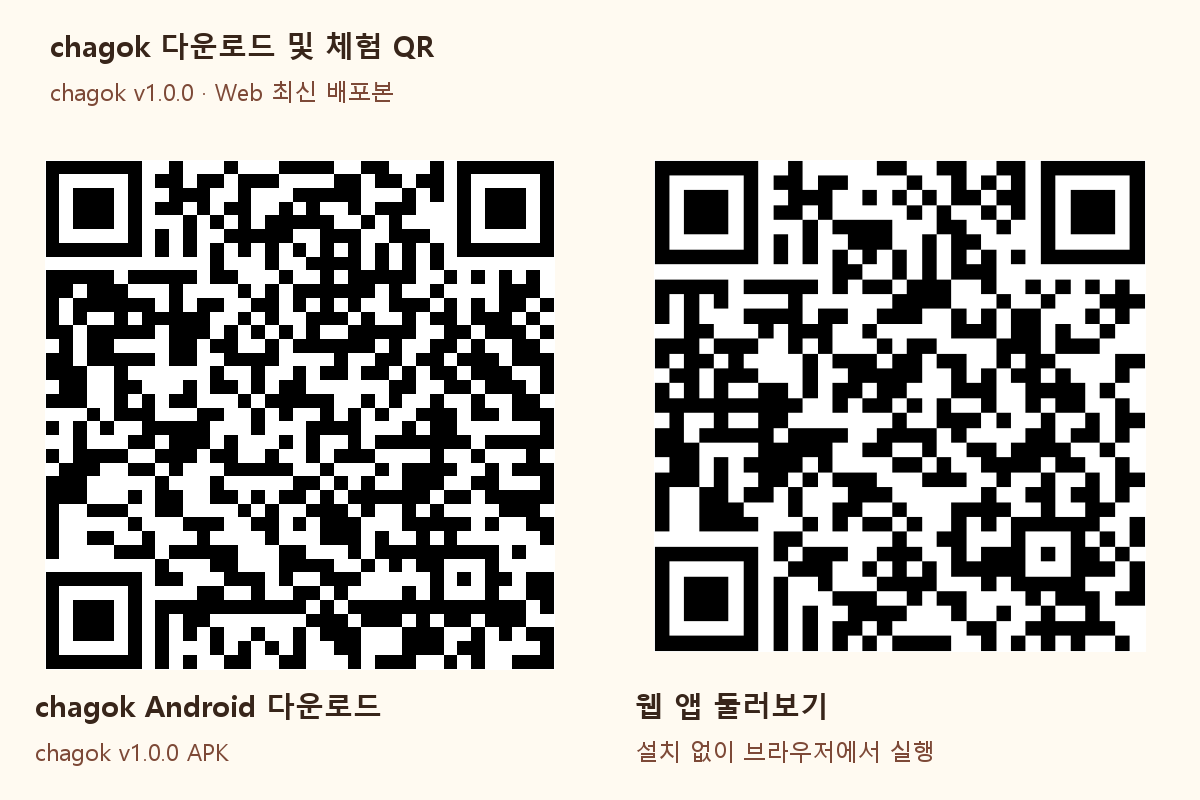
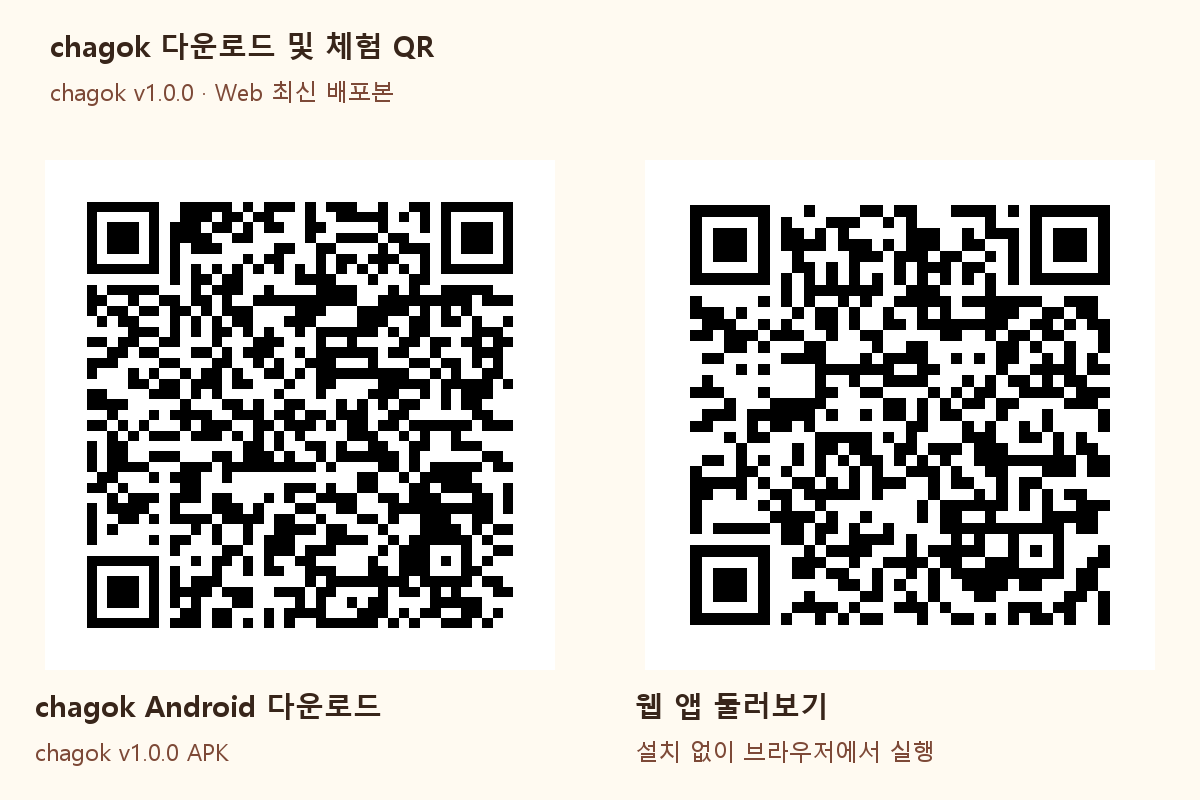
Refresh web preview QR destination

Changed region(s): [[0.0308, 0.1875, 0.4625, 0.8438], [0.5242, 0.1875, 0.9558, 0.8125]]

diff --git a/tmp/create_delivery_qr.py b/tmp/create_delivery_qr.py
@@ -8,7 +8,7 @@ out = Path(__file__).resolve().parents[1] / 'delivery-qr'
 out.mkdir(exist_ok=True)
 items = [
     ('android-download', 'chagok Android 다운로드', 'chagok v1.0.0 APK', 'https://github.com/songchaewonn/cookietime-android-mvp/releases/download/v1.0.0/chagok-v1.0.0.apk'),
-    ('web-preview', '웹 앱 둘러보기', '설치 없이 브라우저에서 실행', 'https://songchaewonn.github.io/cookietime-mvp/?rev=97f9ecf'),
+    ('web-preview', '웹 앱 둘러보기', '설치 없이 브라우저에서 실행', 'https://songchaewonn.github.io/cookietime-mvp/?rev=cf5d9d4#home'),
 ]
 svg_factory = __import__('qrcode.image.svg', fromlist=['SvgPathImage']).SvgPathImage
 font = ImageFont.truetype('C:/Windows/Fonts/malgun.ttf', 23)
@@ -30,6 +30,6 @@ for i, (name, title, subtitle, url) in enumerate(items):
     d.text((i * 600 + 35, 685), title, font=bold, fill='#38251a')
     d.text((i * 600 + 35, 735), subtitle, font=font, fill='#7d4937')
 sheet.save(out / 'chagok-qr-guide.png')
-report = '# chagok QR\n\n- chagok Android v1.0.0 APK (GitHub Release asset updated)\n- Web app (revision 97f9ecf)\n\n' + ''.join(f'- {title}: {url}\n' for _, title, _, url in items)
+report = '# chagok QR\n\n- chagok Android v1.0.0 APK (GitHub Release asset updated)\n- Web app (revision cf5d9d4)\n\n' + ''.join(f'- {title}: {url}\n' for _, title, _, url in items)
 (out / 'verification.md').write_text(report, encoding='utf-8')
 print(out)

diff --git a/delivery-qr/verification.md b/delivery-qr/verification.md
@@ -1,8 +1,7 @@
 # chagok QR
 
-- chagok Android v1.0.0 APK (GitHub Release asset replaced and verified on 2026-11-19)
-- Android application versionName: 1.0.0; versionCode: 12
-- Web app revision: 97f9ecf (HTTP 200)
+- chagok Android v1.0.0 APK (GitHub Release asset updated)
+- Web app (revision cf5d9d4)
 
 - chagok Android 다운로드: https://github.com/songchaewonn/cookietime-android-mvp/releases/download/v1.0.0/chagok-v1.0.0.apk
-- 웹 앱 둘러보기: https://songchaewonn.github.io/cookietime-mvp/?rev=97f9ecf
+- 웹 앱 둘러보기: https://songchaewonn.github.io/cookietime-mvp/?rev=cf5d9d4#home
